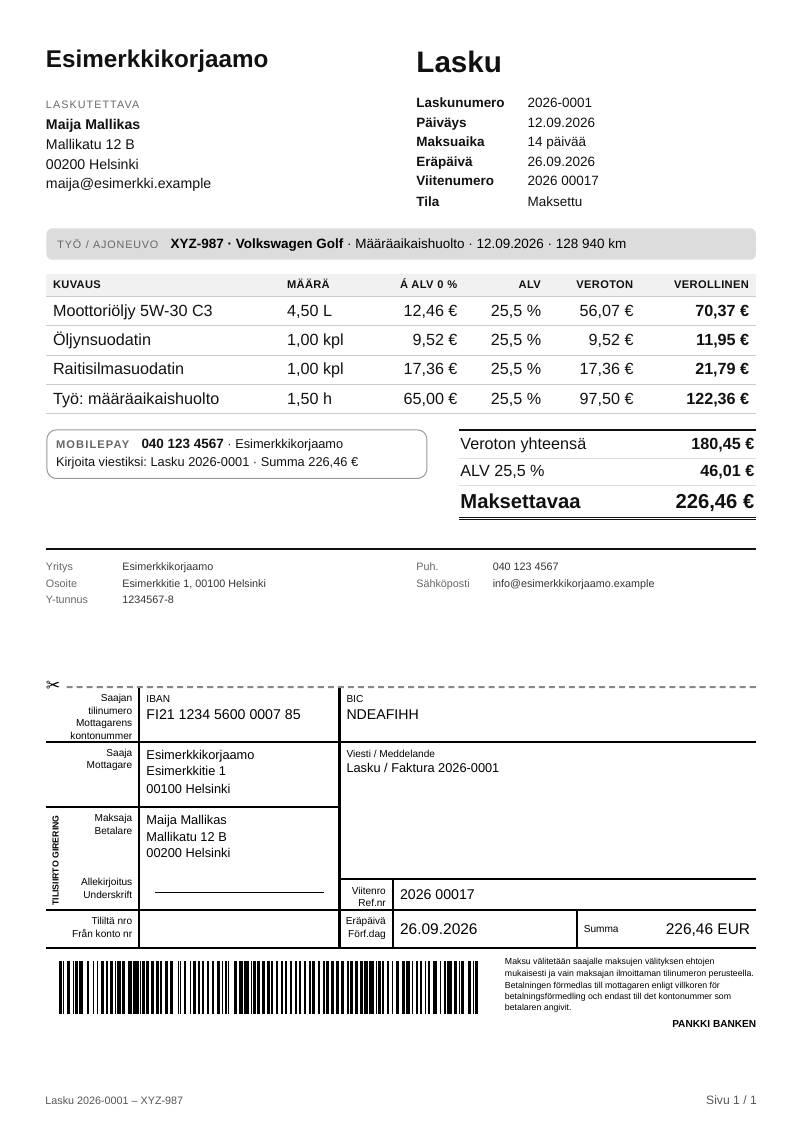
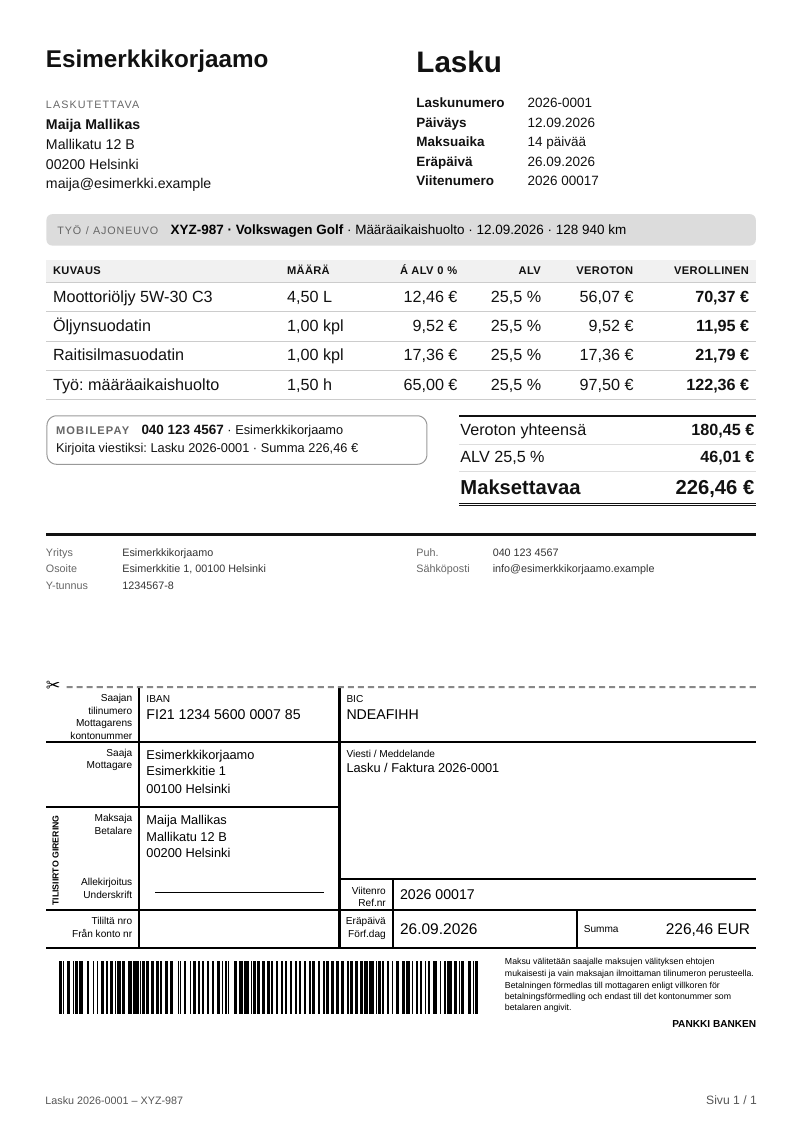
1.2.3: laskun tila pois tulosteesta; README:n laskukuva päivitetty
Claude-Session: https://claude.ai/code/session_015XxUqWRYkKn87SXzDFoRcD

Changed region(s): [[0.0623, 0.1542, 0.9352, 0.5551]]

diff --git a/app/printing.php b/app/printing.php
@@ -80,7 +80,6 @@ if($print==='invoice'){
         <span><?=t('print.inv_terms')?></span><b><?=t('print.inv_terms_days',['n'=>$termDays])?></b>
         <span><?=t('print.inv_due_date')?></span><b><?=h(fiDate($inv['due_date']))?></b>
         <?php if($invRef!==''):?><span><?=t('print.inv_reference')?></span><b><?=h(invoiceReferenceFormatted($invRef))?></b><?php endif;?>
-        <span><?=t('print.col_status')?></span><b><?=h(invoiceStatusLabel((string)$inv['status']))?></b>
       </div></div></div>
     <div class="inv2-work"><span><?=t('print.inv_work_vehicle')?></span><strong><?=h(trim(($inv['reg_plate']?:$inv['nickname']).' · '.$inv['make'].' '.$inv['model']))?></strong> · <?=h($inv['title'])?> · <?=h(fiDate($inv['service_date']))?> · <?=h(recordedKm((int)$inv['odometer']))?></div>
     <table class="invoice-table"><thead><tr><th><?=t('print.inv_col_description')?></th><th><?=t('print.inv_col_qty')?></th><th class="right"><?=t('print.inv_col_unit_price')?></th><th class="right"><?=t('print.inv_col_vat')?></th><th class="right"><?=t('print.inv_col_net')?></th><th class="right"><?=t('print.inv_col_gross')?></th></tr></thead><tbody><?php foreach($lines as $l):$ln=(float)$l['qty']*(float)$l['unit_price_net'];$lg=$ln*(1+(float)$l['vat_rate']/100);?><tr><td><?=h($l['description'])?></td><td><?=h(dec((float)$l['qty'],2).' '.unitLabel((string)$l['unit']))?></td><td class="right"><?=h(money((float)$l['unit_price_net']))?></td><td class="right"><?=h(dec((float)$l['vat_rate'],1))?> %</td><td class="right"><?=h(money($ln))?></td><td class="right"><strong><?=h(money($lg))?></strong></td></tr><?php endforeach;?></tbody></table>

diff --git a/index.php b/index.php
@@ -53,7 +53,7 @@ date_default_timezone_set('Europe/Helsinki');
 const DEFAULT_APP_NAME      = 'Autonhuolto';
 const DEFAULT_HOME_TITLE    = 'Huoltokirja';
 const DEFAULT_HOME_SUBTITLE = 'Pidä omat, perheen ja tuttujen autot samassa huoltohistoriassa.';
-const APP_VERSION           = '1.2.2';
+const APP_VERSION           = '1.2.3';
 /* AGPL v3 §13: verkossa ajettavan ohjelman käyttäjille on tarjottava lähdekoodi. Aseta tähän julkisen koodivaraston osoite (esim. 'https://github.com/KÄYTTÄJÄ/autonhuolto'); tyhjänä linkkiä ei näytetä. */
 const APP_SOURCE_URL        = 'https://github.com/oh6kw/autonhuolto';
 const SCHEMA_VERSION   = 13;

diff --git a/CHANGELOG.md b/CHANGELOG.md
@@ -4,6 +4,13 @@ Tämä tiedosto kertoo, mitä on muuttunut versiosta toiseen. Tiedostorakenne, a
 
 Versiointi: `pääversio.toinen.korjaus` (esim. 1.0.1 = korjaus, 1.1.0 = uusi ominaisuus). Tietokannan skeemaversio on 13.
 
+## 1.2.3
+
+Pieni korjaus laskutulosteeseen. Ei tietokantamuutoksia (skeema 13).
+
+- **Laskun tila pois tulosteesta:** laskun tila (Luonnos, Lähetetty, Maksettu …) ei enää tulostu laskulle eikä PDF:ään, koska se on ohjelman sisäinen tieto eikä kuulu asiakkaalle. Tila näkyy ja vaihtuu edelleen laskun omalla sivulla ja laskulistassa. Laskun tietolohko on yhden rivin lyhyempi.
+- **README:** laskun PDF-esimerkkikuva päivitetty (ei tila-riviä).
+
 ## 1.2.2
 
 Pieni ulkoasukorjaus laskutulosteeseen. Ei tietokantamuutoksia (skeema 13).
